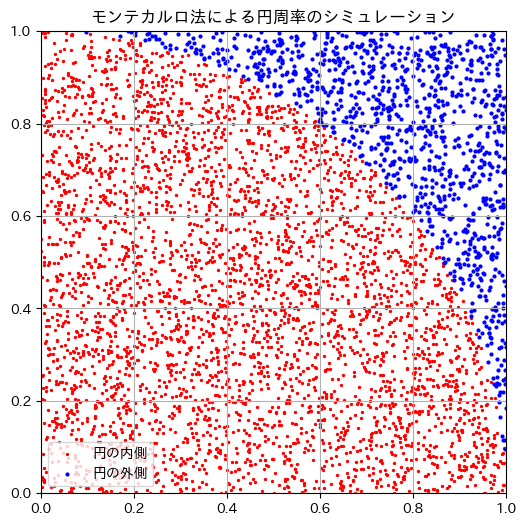
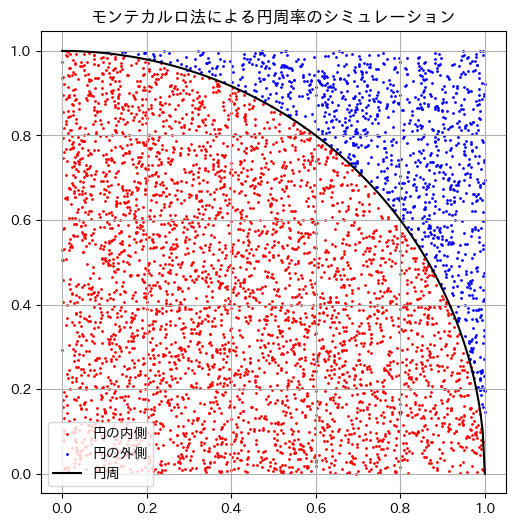
fix: refine graph and simulation lessons

diff --git a/py53.html b/py53.html
@@ -69,22 +69,22 @@ plt.show()
       <dl>
 
         <dt><tt>n=60</tt>の実行結果</dt>
-        <dd><img src="./img/py53_111.png" class="pyplot" style="margin-left:40px; width:300px;" alt="サイコロを60回振った結果の棒グラフ" decoding="async" loading="lazy"></dd>
+        <dd><img src="./img/py53_111.png" class="pyplot width300px" alt="サイコロを60回振った結果の棒グラフ" decoding="async" loading="lazy"></dd>
 
         <dt><tt>n=600</tt>の実行結果</dt>
-        <dd><img src="./img/py53_112.png" class="pyplot" style="margin-left:40px; width:300px;" alt="サイコロを600回振った結果の棒グラフ" decoding="async" loading="lazy"></dd>
+        <dd><img src="./img/py53_112.png" class="pyplot width300px" alt="サイコロを600回振った結果の棒グラフ" decoding="async" loading="lazy"></dd>
         
         <dt><tt>n=6000</tt>の実行結果</dt>
-        <dd><img src="./img/py53_113.png" class="pyplot" style="margin-left:40px; width:300px;" alt="サイコロを6000回振った結果の棒グラフ" decoding="async" loading="lazy"></dd>
+        <dd><img src="./img/py53_113.png" class="pyplot width300px" alt="サイコロを6000回振った結果の棒グラフ" decoding="async" loading="lazy"></dd>
 
         <dt><tt>n=60000</tt>の実行結果</dt>
-        <dd><img src="./img/py53_114.png" class="pyplot" style="margin-left:40px; width:300px;" alt="サイコロを60000回振った結果の棒グラフ" decoding="async" loading="lazy"></dd>
+        <dd><img src="./img/py53_114.png" class="pyplot width300px" alt="サイコロを60000回振った結果の棒グラフ" decoding="async" loading="lazy"></dd>
 
         <dt><tt>n=600000</tt>の実行結果</dt>
-        <dd><img src="./img/py53_115.png" class="pyplot" style="margin-left:40px; width:300px;" alt="サイコロを600000回振った結果の棒グラフ" decoding="async" loading="lazy"></dd>
+        <dd><img src="./img/py53_115.png" class="pyplot width300px" alt="サイコロを600000回振った結果の棒グラフ" decoding="async" loading="lazy"></dd>
 
         <dt><tt>n=6000000</tt>の実行結果</dt>
-        <dd><img src="./img/py53_116.png" class="pyplot" style="margin-left:40px; width:300px;" alt="サイコロを6000000回振った結果の棒グラフ" decoding="async" loading="lazy"></dd>
+        <dd><img src="./img/py53_116.png" class="pyplot width300px" alt="サイコロを6000000回振った結果の棒グラフ" decoding="async" loading="lazy"></dd>
       </dl>
       
       <p>このように、試行回数が多くなればなるほど、理論値に近づいていくことがわかります。</p>
@@ -139,7 +139,7 @@ plt.show()
       <h2 id="headline_2">(2) 天気のシミュレーション</h2>
       <p>次の図は、ある地域のある時期の日単位の天気の移り変わりを示したもので、数値は翌日の天気の変化の確率を表しています（このような図を<strong>状態遷移図</strong>といいます）。</p>
       <p class="center">
-        <img src="./img/py53_201.png" class="center" width="400px" alt="天気の状態遷移図" decoding="async" loading="lazy">
+        <img src="./img/py53_201.png" class="center width400px" alt="天気の状態遷移図" decoding="async" loading="lazy">
       </p>
       <p>0日後の天気が「晴れ」として、30日後までの天気がどのように変化するか、また、各天気の種類の日が何日あるかを棒グラフで示しなさい。ただし、天気は、「晴れ」「曇り」「雨」の3種類とし、その天気が1日中続くものとします。</p>
       <p class="small-text">※ このプログラムでは、0日後の天気も1日分として数えるため、集計対象は0日後から30日後までの31日分です。</p>
@@ -202,7 +202,7 @@ plt.xlabel("天気")
 plt.ylabel("日数")
 plt.title("各天気の日数")
 for i in range(len(weather_labels)):
-    ratio = int(weather_counts[i] / (days + 1) * 100)
+    ratio = round(weather_counts[i] / (days + 1) * 100, 1)
     plt.text(i, weather_counts[i], str(weather_counts[i]) + " (" + str(ratio) + "%)", ha="center", va="bottom")
 plt.show()
       </code></pre>
@@ -231,6 +231,7 @@ plt.show()
       <pre class="python" data-title="モンテカルロ法を用いた円周率の近似計算"><code>
 import matplotlib.pyplot as plt # matplotlib: グラフを表示するためのライブラリ
 import japanize_matplotlib      # japanize_matplotlib: matplotlibを日本語化するためのライブラリ
+import numpy as np              # numpy: 数値計算用のライブラリ
 import random
 
 n = 5000  # 試行回数
@@ -262,19 +263,25 @@ plt.figure(figsize=(6, 6))  # グラフのサイズを設定
 plt.scatter(x1, y1, color="red", s=1, label="円の内側")
 plt.scatter(x2, y2, color="blue", s=1, label="円の外側")
 
+# 単位円の第1象限部分を表示
+circle_x = np.linspace(0, 1, 200)
+circle_y = np.sqrt(1 - circle_x ** 2)
+plt.plot(circle_x, circle_y, color="black", linewidth=1.5, label="円周")
+
 plt.title("モンテカルロ法による円周率のシミュレーション")  # グラフのタイトル
 plt.xlim(0, 1)
 plt.ylim(0, 1)
+plt.axis("equal")
 plt.grid(True)
 plt.legend(loc="lower left")
 plt.show()
       </code></pre>
-      <div class="result"><img src="./img/py53_005.png" class="pyplot" alt="モンテカルロ法による円周率の近似計算の散布図" decoding="async" loading="lazy"></div>
       <pre class="result"><code>
 n = 5000
 cnt = 3926
 π = 3.1408
       </code></pre>
+      <div class="result"><img src="./img/py53_005.png" class="pyplot" alt="単位円の境界と点を示したモンテカルロ法による円周率の近似計算の散布図" decoding="async" loading="lazy"></div>
       
       <p>プログラムを何度か実行すると、毎回結果が異なることがわかります。また、試行回数を増やして実行してみましょう。試行回数が多くなれば、結果はより円周率に近づくことがわかります。</p>
     </article>
@@ -399,14 +406,18 @@ for i in range(n):
 
 # グラフを表示
 plt.plot(x, y)
+plt.scatter(x[0], y[0], color="green", s=40, label="開始点")
+plt.scatter(x[-1], y[-1], color="red", s=40, label="終了点")
 plt.title("ブラウン運動のシミュレーション")
 plt.xlabel("$x$")
 plt.ylabel("$y$")
+plt.axis("equal")
 plt.grid(True)
+plt.legend()
 
 plt.show()
       </code></pre>
-      <div class="result"><img src="./img/py53_006.png" class="pyplot" alt="ブラウン運動のシミュレーショングラフ" decoding="async" loading="lazy"></div>
+      <div class="result"><img src="./img/py53_006.png" class="pyplot" alt="開始点と終了点を示したブラウン運動のシミュレーショングラフ" decoding="async" loading="lazy"></div>
     </article>
   </section>
 </body>

diff --git a/py51.html b/py51.html
@@ -425,9 +425,9 @@ plt.show()                                  # グラフを表示
       
       <h3>２系列のグラフ</h3>
       <p>複数の系列を同時に表示するためには、次のように<tt>y1</tt>, <tt>y2</tt>のNumPy配列を用意し、それぞれについてプロットを作成する記述<tt>plt.plot(x, y1, ...)</tt>，<tt>plt.plot(x, y2, ...)</tt>を書きます。</p>
-      <h4>実習3 挿入ソートとクイックソートの比較回数</h4>
-      <p>挿入ソートの平均移動回数はおよそ $n(n-1)/4$ で、平均比較回数はこれより少し多くなります。クイックソートの平均比較回数はおよそ$n \log_2{n}$ と表せます。次の例では、処理回数の増え方を比較するために、$n(n-1)/4$ と $n \log_2{n}$ を目安として2系列のグラフを表示します。</p>
-      <pre class="python" data-title="挿入ソートとクイックソートの比較回数のグラフ"><code>
+      <h4>実習3 挿入ソートとクイックソートの処理回数の増え方</h4>
+      <p>挿入ソートの平均移動回数はおよそ $n(n-1)/4$ で、平均比較回数はこれより少し多くなります。クイックソートの平均比較回数はおよそ$n \log_2{n}$ と表せます。厳密に同じ種類の回数を比べるものではありませんが、データ数に対する処理回数の増え方を比べる目安として、$n(n-1)/4$ と $n \log_2{n}$ の2系列をグラフにします。</p>
+      <pre class="python" data-title="挿入ソートとクイックソートの処理回数の増え方"><code>
 import matplotlib.pyplot as plt # matplotlib: グラフを表示するためのライブラリ
 import japanize_matplotlib      # japanize_matplotlib: matplotlibを日本語化するためのライブラリ
 import numpy as np              # numpy: 数値計算用のライブラリ
@@ -436,15 +436,15 @@ import numpy as np              # numpy: 数値計算用のライブラリ
 x = np.arange(1, 101)
 
 # yの値を計算
-y1 = x * (x - 1) / 4  # 挿入ソートの平均比較回数
-y2 = x * np.log2(x)  # クイックソートの平均比較回数
+y1 = x * (x - 1) / 4  # 挿入ソートの処理回数の目安
+y2 = x * np.log2(x)    # クイックソートの処理回数の目安
 
 # グラフの作成と表示
 plt.plot(x, y1, label="挿入ソート", color="blue")       # 挿入ソートのグラフをプロット
 plt.plot(x, y2, label="クイックソート", color="red")    # クイックソートのグラフをプロット
-plt.title("挿入ソートとクイックソートの比較回数")       # グラフのタイトルを設定
+plt.title("挿入ソートとクイックソートの処理回数の増え方") # グラフのタイトルを設定
 plt.xlabel("データ数")                                  # x軸のラベルを設定
-plt.ylabel("比較回数")                                  # y軸のラベルを設定
+plt.ylabel("処理回数（目安）")                          # y軸のラベルを設定
 plt.axhline(0, color="black", lw=0.5)                   # x軸を表示(y=0の線を描く)
 plt.axvline(0, color="black", lw=0.5)                   # y軸を表示(x=0の線を描く)
 plt.xlim(0, 100)                                        # x軸の範囲を設定
@@ -453,7 +453,7 @@ plt.legend()                                            # 凡例を表示
 plt.grid(True)                                          # グリッド線を表示
 plt.show()                                              # グラフを表示
       </code></pre>
-      <div class="result"><img src="./img/py51_005.png" class="pyplot" alt="挿入ソートとクイックソートの比較回数のグラフ" decoding="async" loading="lazy"></div>
+      <div class="result"><img src="./img/py51_005.png" class="pyplot" alt="挿入ソートとクイックソートの処理回数の増え方を比較したグラフ" decoding="async" loading="lazy"></div>
 
       
       

diff --git a/py52.html b/py52.html
@@ -64,7 +64,7 @@ y = [amount]      # リスト型変数yの0番目の要素に変数amount
 
 # 年ごとの残高を計算
 for i in range(years):
-    interest = int(amount * rate)   # 利息 = 前年の金額 * 利率
+    interest = int(amount * rate)   # 利息 = 前年の金額 * 利率（1円未満は切り捨て）
     amount = amount + interest      # 今年の金額 = 前年の金額 + 利息
     x.append(i + 1)
     y.append(amount)
@@ -96,6 +96,7 @@ plt.show()
 10 年目:  16284 円
       </code></pre>
       <div class="result"><img src="./img/py52_201.png" class="pyplot" alt="複利計算のグラフ" decoding="async"></div>
+      <p class="small-text">※ この例では、<tt>int(amount * rate)</tt>によって1円未満の利息を毎年切り捨てています。そのため、小数を含む理論上の複利計算とは結果がわずかに異なります。</p>
  
       
     </article>
@@ -124,6 +125,7 @@ years = 20      # シミュレーション期間
 x  = [0]            # x軸の配列
 yA = [nA]           # y軸の配列（A市の人口）
 yB = [nB]           # y軸の配列（B市の人口）
+overtake_year = -1   # A市の人口がB市の人口を初めて上回る年（未確定は -1）
 
 # シミュレーションの実行
 for i in range(years):
@@ -136,6 +138,16 @@ for i in range(years):
     x.append(i + 1)
     yA.append(nA)
     yB.append(nB)
+
+    if overtake_year == -1 and nA > nB:
+        overtake_year = i + 1
+
+
+# A市がB市を上回る年を表示
+if overtake_year == -1:
+    print(years, "年以内にはA市の人口はB市の人口を上回りません。")
+else:
+    print("A市の人口がB市の人口を上回るのは", overtake_year, "年後です。")
 
 
 # グラフを描画
@@ -151,6 +163,7 @@ plt.legend()
 
 plt.show()
       </code></pre>
+      <pre class="result"><code>A市の人口がB市の人口を上回るのは 11 年後です。</code></pre>
       <div class="result"><img src="./img/py52_301.png" class="pyplot" alt="A市とB市の人口予測グラフ" decoding="async" loading="lazy"></div>
 
       
@@ -195,7 +208,7 @@ import matplotlib.pyplot as plt
 import japanize_matplotlib
 
 # パラメータ
-k  = 0.40    # Aの変化率（単位時間あたりのAの変化量）
+k  = 0.40    # Aの変化率（単位時間あたりに変化する割合）
 T  = 15      # シミュレーション期間（単位は、年 / 日 / 時間 / 分 / 秒など）
 dt = 0.2     # 時間間隔：1回の計算で進める時間。単位はTと同じにする。
 

diff --git a/js/script.js b/js/script.js
@@ -696,7 +696,7 @@
       // 中央寄せの対象
       centerSelector     = 'img.image, img.screen_shot',
       // ライトボックスの対象
-      lightboxSelector   = 'img.screen_shot',
+      lightboxSelector   = 'img.screen_shot, img.pyplot',
       // 除外（機能ごとに分ける）
       excludeCenter      = '.no-wrap, [data-no-wrap]',  // ← ラップだけ除外
       excludeLightbox    = '',                          // ← 既定で除外なし

diff --git a/js/head.js b/js/head.js
@@ -67,7 +67,7 @@
   // bodyより先に直接読み込まれた場合は、機能を落とさないよう従来どおり読み込む。
   const canInspectBody = Boolean(document.body);
   const needsLightbox = !canInspectBody || Boolean(document.body.querySelector(
-    'img.screen_shot, a[data-lightbox], script[src*="slide_pages.js"]'
+    'img.screen_shot, img.pyplot, a[data-lightbox], script[src*="slide_pages.js"]'
   ));
 
   if (needsLightbox) {
